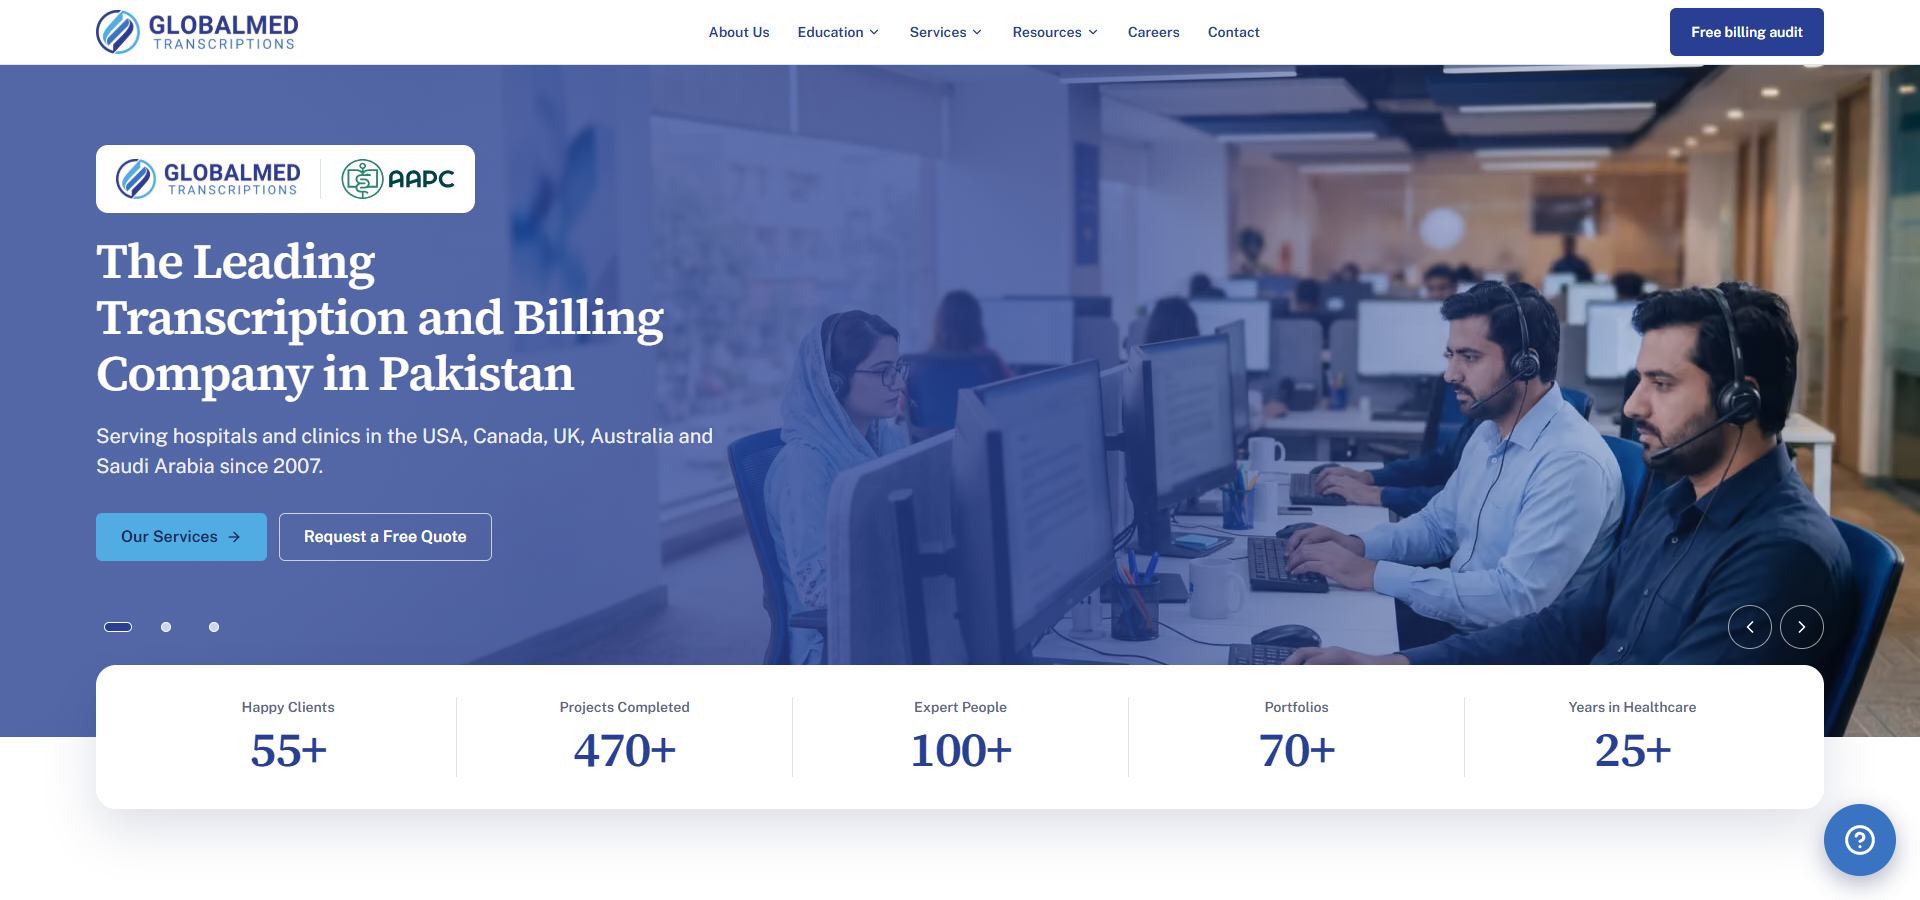
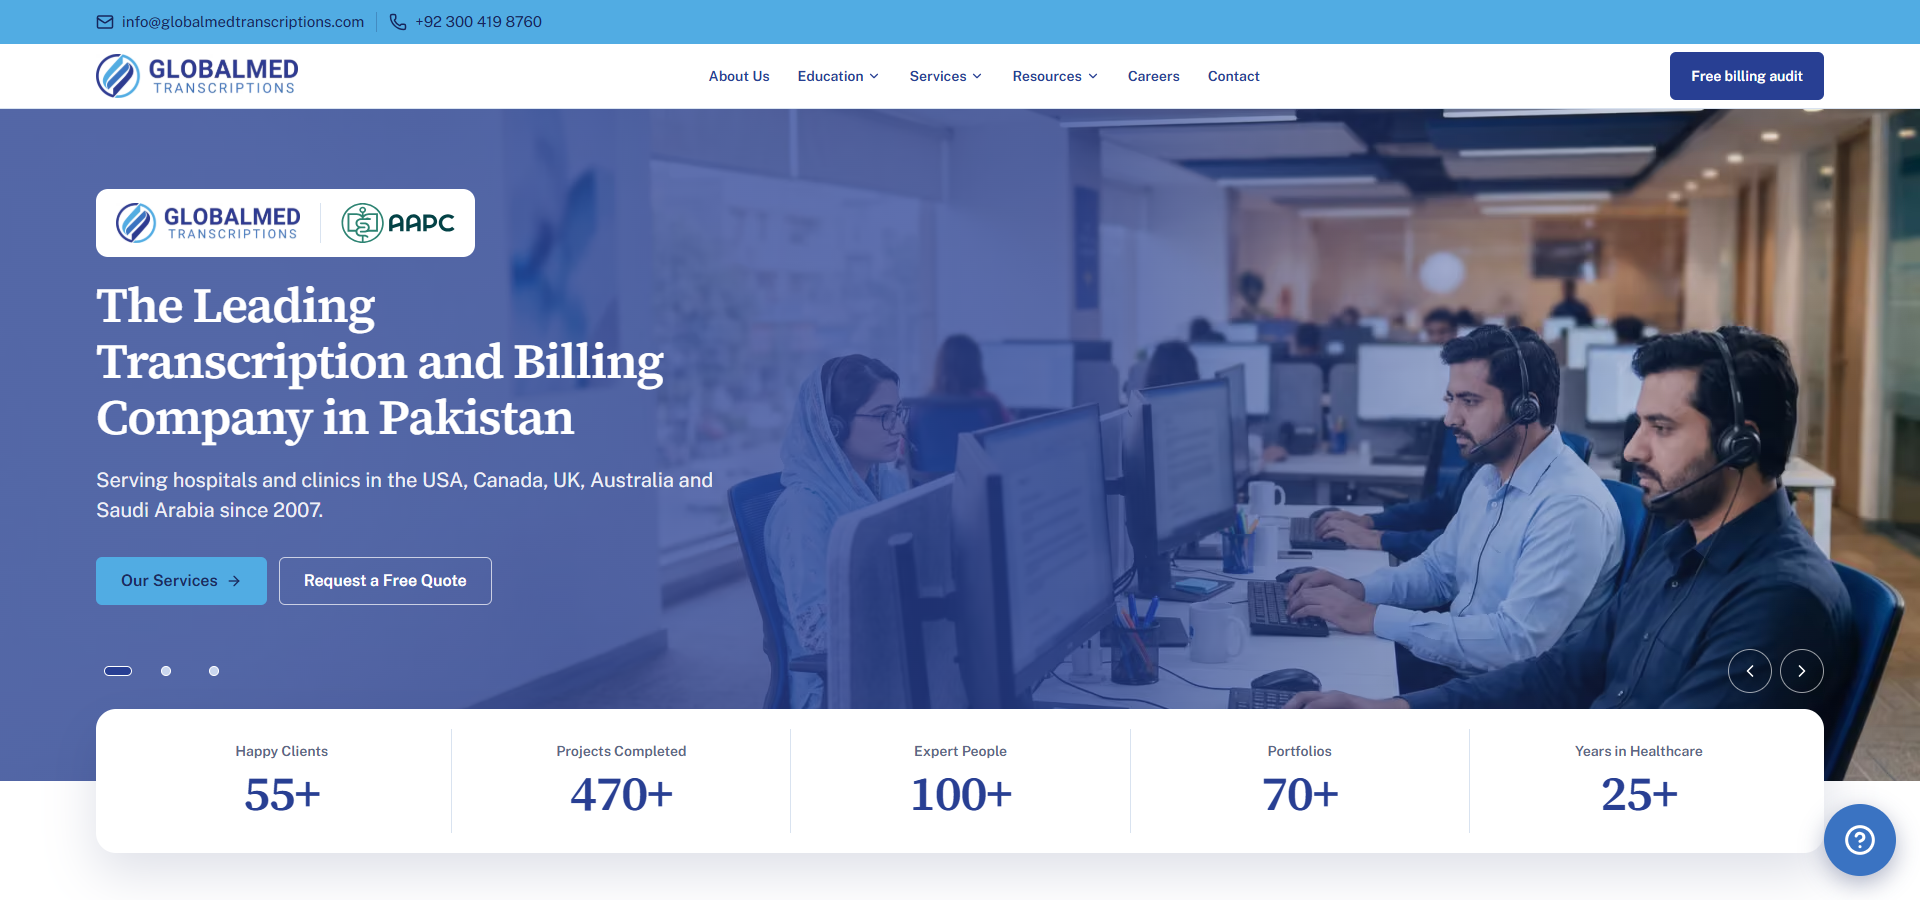
feat(site): top contact bar with email, mobile and social links above the sticky nav

diff --git a/tests/e2e/top-bar.spec.ts b/tests/e2e/top-bar.spec.ts
@@ -1,0 +1,65 @@
+import { expect, test } from "@playwright/test";
+
+// Top contact bar (client, 2026-10-02): sky bar above the nav on every public page, navy
+// text, email + mobile from data/site.ts, socials only when linked; scrolls away while the
+// nav stays sticky; phones show icons only.
+
+const bar = (page: import("@playwright/test").Page) =>
+  page.getByRole("list", { name: "Contact GlobalMed" });
+
+for (const path of ["/", "/about", "/contact", "/education/cpc", "/does-not-exist"]) {
+  test(`top bar on ${path}`, async ({ page }) => {
+    await page.setViewportSize({ width: 1280, height: 800 });
+    await page.goto(path);
+    const email = bar(page).getByRole("link", { name: "info@globalmedtranscriptions.com" });
+    await expect(email).toHaveAttribute("href", "mailto:info@globalmedtranscriptions.com");
+    await expect(bar(page).getByRole("link", { name: "+92 300 419 8760" })).toHaveAttribute(
+      "href",
+      "tel:+923004198760",
+    );
+  });
+}
+
+test("44px tall, sky background, navy 15px text, aligned with the nav", async ({ page }) => {
+  await page.setViewportSize({ width: 1280, height: 800 });
+  await page.goto("/");
+  const container = bar(page).locator("xpath=ancestor::div[contains(@class,'container-fluid')][1]");
+  const wrapper = container.locator("xpath=..");
+  expect((await wrapper.boundingBox())!.height).toBe(44);
+  expect(await wrapper.evaluate((el) => getComputedStyle(el).backgroundColor)).toBe(
+    "rgb(81, 172, 227)",
+  );
+  const email = bar(page).getByRole("link").first();
+  expect(await email.evaluate((el) => getComputedStyle(el).color)).toBe("rgb(23, 38, 92)");
+  expect(await email.evaluate((el) => getComputedStyle(el).fontSize)).toBe("15px");
+  // Same left edge as the logo in the nav.
+  const logo = page.getByRole("link", { name: "GlobalMed home" }).first();
+  const iconX = (await email.locator("svg").boundingBox())!.x;
+  expect(Math.abs(iconX - (await logo.boundingBox())!.x)).toBeLessThanOrEqual(1);
+});
+
+test("scrolls away while the nav stays sticky", async ({ page }) => {
+  await page.setViewportSize({ width: 1280, height: 800 });
+  await page.goto("/about");
+  await page.evaluate(() => window.scrollTo(0, 600));
+  await page.waitForTimeout(200);
+  expect((await bar(page).boundingBox())!.y).toBeLessThan(0);
+  expect((await page.locator("header").first().boundingBox())!.y).toBe(0);
+});
+
+test("phones: icons only, centred, 44px targets", async ({ page }) => {
+  await page.setViewportSize({ width: 360, height: 740 });
+  await page.goto("/");
+  const links = bar(page).getByRole("link");
+  await expect(links).toHaveCount(2);
+  for (const link of await links.all()) {
+    const box = (await link.boundingBox())!;
+    expect(box.width).toBeGreaterThanOrEqual(44);
+    expect(box.height).toBeGreaterThanOrEqual(44);
+    await expect(link.locator("span")).toHaveClass(/sr-only/);
+  }
+  const first = (await links.first().boundingBox())!;
+  const last = (await links.last().boundingBox())!;
+  expect(Math.abs((first.x + last.x + last.width) / 2 - 180)).toBeLessThanOrEqual(2);
+  expect(await page.evaluate(() => document.documentElement.scrollWidth)).toBe(360);
+});

diff --git a/components/marketing/top-bar.tsx b/components/marketing/top-bar.tsx
@@ -1,0 +1,75 @@
+import { Mail, Phone } from "lucide-react";
+
+import { glyphs } from "@/components/marketing/social-icons";
+import { contactLinks, siteLinks, type SocialKey } from "@/data/site";
+import { cn } from "@/lib/utils";
+
+/** Facebook, LinkedIn and Instagram first, then any other network with a link. */
+const socialOrder: { key: SocialKey; label: string }[] = [
+  { key: "facebook", label: "Facebook" },
+  { key: "linkedin", label: "LinkedIn" },
+  { key: "instagram", label: "Instagram" },
+  { key: "youtube", label: "YouTube" },
+  { key: "x", label: "X" },
+];
+
+// 44px tap areas; navy on sky (#17265C on #51ACE3, 5.9:1).
+const itemClass =
+  "inline-flex min-h-11 min-w-11 items-center justify-center gap-2 rounded-sm hover:underline focus-visible:outline-2 focus-visible:outline-offset-[-2px] focus-visible:outline-navy-deep md:min-w-0";
+
+/**
+ * Top contact bar (client, 2026-10-02), above the main nav on every public page. It scrolls
+ * away; the nav below stays sticky. Email and mobile on the left, social icons on the right
+ * (only those with a link in data/site.ts). Phones: icons only, centred in one row.
+ */
+export function TopBar() {
+  const socials = socialOrder.filter((s) => siteLinks.social[s.key]);
+  return (
+    <div className="bg-sky text-[15px] text-navy-deep">
+      <div className="container-fluid flex h-11 items-center justify-center gap-2 md:justify-between">
+        <ul aria-label="Contact GlobalMed" className="flex items-center gap-2 md:gap-0">
+          <li>
+            <a href={`mailto:${contactLinks.email}`} className={itemClass}>
+              <Mail aria-hidden="true" className="size-[18px] shrink-0" />
+              <span className="sr-only md:not-sr-only">{contactLinks.email}</span>
+            </a>
+          </li>
+          <li
+            aria-hidden="true"
+            className="mx-3 hidden h-5 w-px bg-[rgb(23_38_92/0.25)] md:block"
+          />
+          <li>
+            <a href={contactLinks.mobile.href} className={itemClass}>
+              <Phone aria-hidden="true" className="size-[18px] shrink-0" />
+              <span className="sr-only md:not-sr-only">{contactLinks.mobile.display}</span>
+            </a>
+          </li>
+        </ul>
+        {socials.length > 0 && (
+          <ul aria-label="GlobalMed on social media" className="flex items-center">
+            {socials.map(({ key, label }) => (
+              <li key={key}>
+                <a
+                  href={siteLinks.social[key]}
+                  target="_blank"
+                  rel="noopener noreferrer"
+                  aria-label={`GlobalMed on ${label} (opens in a new tab)`}
+                  className={cn(itemClass, "min-w-11 md:min-w-11")}
+                >
+                  <svg
+                    viewBox="0 0 24 24"
+                    fill="currentColor"
+                    aria-hidden="true"
+                    className="size-[18px]"
+                  >
+                    {glyphs[key]}
+                  </svg>
+                </a>
+              </li>
+            ))}
+          </ul>
+        )}
+      </div>
+    </div>
+  );
+}

diff --git a/lib/site.ts b/lib/site.ts
@@ -1,6 +1,6 @@
 import { features, type FeatureFlag } from "@/config/features";
 import { aapcCoursePath, getAapcCourses } from "@/data/courses";
-import { address } from "@/data/site";
+import { address, contactLinks } from "@/data/site";
 import { publicEnv } from "@/lib/env";
 
 /**
@@ -23,10 +23,10 @@ export const site = {
   // Supplied by the client on 2026-09-25. The footer, contact page, llms.txt and the
   // Organization/LocalBusiness JSON-LD all read these, so they always match.
   contact: {
-    email: "info@globalmedtranscriptions.com",
+    email: contactLinks.email,
     phone: "+92 42 3594 6342",
     phoneHref: "tel:+924235946342",
-    whatsappDisplay: "+92 300 419 8760",
+    whatsappDisplay: contactLinks.mobile.display,
     // NEXT_PUBLIC_WHATSAPP_NUMBER can override the client's number per environment.
     whatsappNumber: process.env.NEXT_PUBLIC_WHATSAPP_NUMBER || "923004198760",
     hours: "Open 24/7",

diff --git a/app/(marketing)/layout.tsx b/app/(marketing)/layout.tsx
@@ -1,6 +1,7 @@
 import { HelpButton } from "@/components/marketing/help-button";
 import { SiteFooter } from "@/components/marketing/site-footer";
 import { SiteHeader } from "@/components/marketing/site-header";
+import { TopBar } from "@/components/marketing/top-bar";
 import { WhatsAppButton } from "@/components/marketing/whatsapp-button";
 import { features } from "@/config/features";
 import { JsonLd, organizationJsonLd } from "@/lib/seo/json-ld";
@@ -14,6 +15,8 @@ export default function MarketingLayout({ children }: { children: React.ReactNod
       >
         Skip to content
       </a>
+      {/* Scrolls away; the header below is sticky (2026-10-02). */}
+      <TopBar />
       <SiteHeader />
       <main id="main" tabIndex={-1} className="flex-1 focus:outline-none">
         {children}

diff --git a/app/not-found.tsx b/app/not-found.tsx
@@ -2,12 +2,14 @@ import Link from "next/link";
 
 import { SiteFooter } from "@/components/marketing/site-footer";
 import { SiteHeader } from "@/components/marketing/site-header";
+import { TopBar } from "@/components/marketing/top-bar";
 import { ClaimLine } from "@/components/motion/claim-line";
 import { buttonVariants } from "@/components/ui/button";
 
 export default function NotFound() {
   return (
     <div className="flex min-h-dvh flex-col">
+      <TopBar />
       <SiteHeader />
       <main id="main" className="flex-1 bg-ledger">
         <div className="mx-auto flex max-w-2xl flex-col items-center gap-6 px-(--gutter) section-y text-center">

diff --git a/data/site.ts b/data/site.ts
@@ -17,6 +17,16 @@ export const address = {
 } as const;
 
 /**
+ * Email and mobile shown in the top contact bar, the footer and the contact page
+ * (2026-10-02). lib/site.ts reads them from here, so there is one copy.
+ */
+export const contactLinks = {
+  email: "info@globalmedtranscriptions.com",
+  /** Mobile / WhatsApp number. */
+  mobile: { display: "+92 300 419 8760", href: "tel:+923004198760" },
+} as const;
+
+/**
  * Footer links the client fills in later (client, 2026-09-27). A social icon only shows once
  * its link is set; empty ones leave no gap.
  */

diff --git a/pm/SESSION_LOG.md b/pm/SESSION_LOG.md
@@ -517,6 +517,15 @@ Newest entry at the bottom. One entry per Claude Code session.
   - Item padding offset in the card so it stays 144px on desktop (72px overlap = half).
   - New `tests/e2e/stats-card.spec.ts` (count-up, +, hover styles, About, reduced motion): 4 passed. Audits 0 problems, CLS 0.
 
+- **Done (top contact bar):**
+  - `components/marketing/top-bar.tsx`: 44px sky (#51ACE3) bar above the sticky nav on every public page, including the 404 page.
+  - Left: mail icon + info@ (mailto) · divider rgba(23,38,92,0.25) · phone icon + +92 300 419 8760 (tel:+923004198760). Navy #17265C 15px (5.9:1 on sky), 44px targets.
+  - Right: social icons (Facebook, LinkedIn, Instagram, then YouTube/X) only when linked. **All social links in `data/site.ts` are still empty, so no icons show yet.**
+  - Email and mobile come from `data/site.ts` `contactLinks` (lib/site.ts now reads them too).
+  - The bar scrolls away; the nav stays sticky (scroll-padding 88px unchanged: anchors land at 88px, below the 65px nav).
+  - Phones: icons only, centred.
+  - New `tests/e2e/top-bar.spec.ts`: 8 passed. Full E2E: 270 passed, 58 skipped.
+
 ---
 ### Session NNN — <title>
 - **Date:**

diff --git a/pm/CHANGELOG.md b/pm/CHANGELOG.md
@@ -4,6 +4,7 @@ Format: Keep a Changelog · Semantic Versioning
 
 ## [Unreleased]
 ### Added
+- Top contact bar above the main nav on every public page: email and mobile from `data/site.ts`, social icons when linked; scrolls away while the nav stays sticky; icons only on phones (2026-10-02)
 - Phase 7A website chatbot: AI provider adapter (OpenAI / Anthropic / Gemini), RAG knowledge base synced from the live site, guardrails with exact scripted answers, streaming `/api/chat`, chat widget behind the help button, lead capture (source "chatbot"), human handoff to a live Sales inbox, Admin → Chatbot (knowledge base, conversations, settings); answers from the model start once the client's LLM key and Supabase are set (2026-10-01)
 - Project documentation pack (2026-09-24)
 - Motion design spec docs/15, /motion command, motion tasks across phases (2026-09-24)
